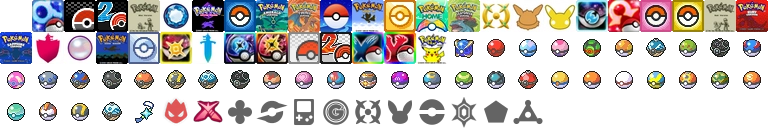
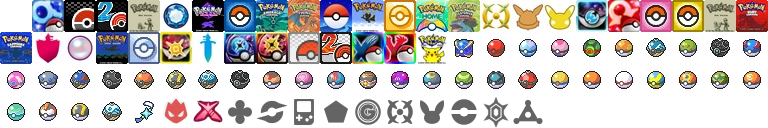
Rename gen6 and alola origin marks

Changed region(s): [[0.4062, 0.75, 0.6875, 1.0]]

diff --git a/images/iconsheet.css b/images/iconsheet.css
@@ -1,1 +1,1 @@
-.icon {background-image: var(--link-iconsheet);background-repeat: no-repeat;display: inline-block;width:32px;height:32px}.icon[data-icon="game/alphasapphire"]{background-position: -32px -0px}.icon[data-icon="game/black"]{background-position: -64px -0px}.icon[data-icon="game/black2"]{background-position: -96px -0px}.icon[data-icon="game/blue"]{background-position: -128px -0px}.icon[data-icon="game/brilliantdiamond"]{background-position: -160px -0px}.icon[data-icon="game/crystal"]{background-position: -192px -0px}.icon[data-icon="game/diamond"]{background-position: -224px -0px}.icon[data-icon="game/emerald"]{background-position: -256px -0px}.icon[data-icon="game/firered"]{background-position: -288px -0px}.icon[data-icon="game/go"]{background-position: -320px -0px}.icon[data-icon="game/gold"]{background-position: -352px -0px}.icon[data-icon="game/heartgold"]{background-position: -384px -0px}.icon[data-icon="game/home"]{background-position: -416px -0px}.icon[data-icon="game/leafgreen"]{background-position: -448px -0px}.icon[data-icon="game/legendsarceus"]{background-position: -480px -0px}.icon[data-icon="game/letsgoeevee"]{background-position: -512px -0px}.icon[data-icon="game/letsgopikachu"]{background-position: -544px -0px}.icon[data-icon="game/moon"]{background-position: -576px -0px}.icon[data-icon="game/omegaruby"]{background-position: -608px -0px}.icon[data-icon="game/pearl"]{background-position: -640px -0px}.icon[data-icon="game/platinum"]{background-position: -672px -0px}.icon[data-icon="game/red"]{background-position: -704px -0px}.icon[data-icon="game/ruby"]{background-position: -736px -0px}.icon[data-icon="game/sapphire"]{background-position: -0px -32px}.icon[data-icon="game/shield"]{background-position: -32px -32px}.icon[data-icon="game/shiningpearl"]{background-position: -64px -32px}.icon[data-icon="game/silver"]{background-position: -96px -32px}.icon[data-icon="game/soulsilver"]{background-position: -128px -32px}.icon[data-icon="game/sun"]{background-position: -160px -32px}.icon[data-icon="game/sword"]{background-position: -192px -32px}.icon[data-icon="game/ultramoon"]{background-position: -224px -32px}.icon[data-icon="game/ultrasun"]{background-position: -256px -32px}.icon[data-icon="game/white"]{background-position: -288px -32px}.icon[data-icon="game/white2"]{background-position: -320px -32px}.icon[data-icon="game/x"]{background-position: -352px -32px}.icon[data-icon="game/y"]{background-position: -384px -32px}.icon[data-icon="game/yellow"]{background-position: -416px -32px}.icon[data-icon="ball/beast"]{background-position: -448px -32px}.icon[data-icon="ball/cherish"]{background-position: -480px -32px}.icon[data-icon="ball/dive"]{background-position: -512px -32px}.icon[data-icon="ball/dream"]{background-position: -544px -32px}.icon[data-icon="ball/dusk"]{background-position: -576px -32px}.icon[data-icon="ball/fast"]{background-position: -608px -32px}.icon[data-icon="ball/feather"]{background-position: -640px -32px}.icon[data-icon="ball/friend"]{background-position: -672px -32px}.icon[data-icon="ball/gigaton"]{background-position: -704px -32px}.icon[data-icon="ball/great"]{background-position: -736px -32px}.icon[data-icon="ball/heal"]{background-position: -0px -64px}.icon[data-icon="ball/heavy"]{background-position: -32px -64px}.icon[data-icon="ball/hisuian-great"]{background-position: -64px -64px}.icon[data-icon="ball/hisuian-heavy"]{background-position: -96px -64px}.icon[data-icon="ball/hisuian-poke"]{background-position: -128px -64px}.icon[data-icon="ball/hisuian-ultra"]{background-position: -160px -64px}.icon[data-icon="ball/jet"]{background-position: -192px -64px}.icon[data-icon="ball/leaden"]{background-position: -224px -64px}.icon[data-icon="ball/level"]{background-position: -256px -64px}.icon[data-icon="ball/love"]{background-position: -288px -64px}.icon[data-icon="ball/lure"]{background-position: -320px -64px}.icon[data-icon="ball/luxury"]{background-position: -352px -64px}.icon[data-icon="ball/master"]{background-position: -384px -64px}.icon[data-icon="ball/moon"]{background-position: -416px -64px}.icon[data-icon="ball/nest"]{background-position: -448px -64px}.icon[data-icon="ball/net"]{background-position: -480px -64px}.icon[data-icon="ball/origin"]{background-position: -512px -64px}.icon[data-icon="ball/park"]{background-position: -544px -64px}.icon[data-icon="ball/poke"]{background-position: -576px -64px}.icon[data-icon="ball/premier"]{background-position: -608px -64px}.icon[data-icon="ball/quick"]{background-position: -640px -64px}.icon[data-icon="ball/repeat"]{background-position: -672px -64px}.icon[data-icon="ball/safari"]{background-position: -704px -64px}.icon[data-icon="ball/sport"]{background-position: -736px -64px}.icon[data-icon="ball/strange"]{background-position: -0px -96px}.icon[data-icon="ball/timer"]{background-position: -32px -96px}.icon[data-icon="ball/ultra"]{background-position: -64px -96px}.icon[data-icon="ball/wing"]{background-position: -96px -96px}.icon[data-icon="key/shiny-charm"]{background-position: -128px -96px}.icon[data-icon="gene/alpha"]{background-position: -160px -96px}.icon[data-icon="gene/gigantamax"]{background-position: -192px -96px}.icon[data-icon="origin-mark/clover"]{background-position: -224px -96px}.icon[data-icon="origin-mark/galar"]{background-position: -256px -96px}.icon[data-icon="origin-mark/game-boy"]{background-position: -288px -96px}.icon[data-icon="origin-mark/go"]{background-position: -320px -96px}.icon[data-icon="origin-mark/hisui"]{background-position: -352px -96px}.icon[data-icon="origin-mark/lets-go"]{background-position: -384px -96px}.icon[data-icon="origin-mark/old"]{background-position: -416px -96px}.icon[data-icon="origin-mark/paldea"]{background-position: -448px -96px}.icon[data-icon="origin-mark/pentagon"]{background-position: -480px -96px}.icon[data-icon="origin-mark/sinnoh-gen8"]{background-position: -512px -96px}
+.icon {background-image: var(--link-iconsheet);background-repeat: no-repeat;display: inline-block;width:32px;height:32px}.icon[data-icon="game/alphasapphire"]{background-position: -32px -0px}.icon[data-icon="game/black"]{background-position: -64px -0px}.icon[data-icon="game/black2"]{background-position: -96px -0px}.icon[data-icon="game/blue"]{background-position: -128px -0px}.icon[data-icon="game/brilliantdiamond"]{background-position: -160px -0px}.icon[data-icon="game/crystal"]{background-position: -192px -0px}.icon[data-icon="game/diamond"]{background-position: -224px -0px}.icon[data-icon="game/emerald"]{background-position: -256px -0px}.icon[data-icon="game/firered"]{background-position: -288px -0px}.icon[data-icon="game/go"]{background-position: -320px -0px}.icon[data-icon="game/gold"]{background-position: -352px -0px}.icon[data-icon="game/heartgold"]{background-position: -384px -0px}.icon[data-icon="game/home"]{background-position: -416px -0px}.icon[data-icon="game/leafgreen"]{background-position: -448px -0px}.icon[data-icon="game/legendsarceus"]{background-position: -480px -0px}.icon[data-icon="game/letsgoeevee"]{background-position: -512px -0px}.icon[data-icon="game/letsgopikachu"]{background-position: -544px -0px}.icon[data-icon="game/moon"]{background-position: -576px -0px}.icon[data-icon="game/omegaruby"]{background-position: -608px -0px}.icon[data-icon="game/pearl"]{background-position: -640px -0px}.icon[data-icon="game/platinum"]{background-position: -672px -0px}.icon[data-icon="game/red"]{background-position: -704px -0px}.icon[data-icon="game/ruby"]{background-position: -736px -0px}.icon[data-icon="game/sapphire"]{background-position: -0px -32px}.icon[data-icon="game/shield"]{background-position: -32px -32px}.icon[data-icon="game/shiningpearl"]{background-position: -64px -32px}.icon[data-icon="game/silver"]{background-position: -96px -32px}.icon[data-icon="game/soulsilver"]{background-position: -128px -32px}.icon[data-icon="game/sun"]{background-position: -160px -32px}.icon[data-icon="game/sword"]{background-position: -192px -32px}.icon[data-icon="game/ultramoon"]{background-position: -224px -32px}.icon[data-icon="game/ultrasun"]{background-position: -256px -32px}.icon[data-icon="game/white"]{background-position: -288px -32px}.icon[data-icon="game/white2"]{background-position: -320px -32px}.icon[data-icon="game/x"]{background-position: -352px -32px}.icon[data-icon="game/y"]{background-position: -384px -32px}.icon[data-icon="game/yellow"]{background-position: -416px -32px}.icon[data-icon="ball/beast"]{background-position: -448px -32px}.icon[data-icon="ball/cherish"]{background-position: -480px -32px}.icon[data-icon="ball/dive"]{background-position: -512px -32px}.icon[data-icon="ball/dream"]{background-position: -544px -32px}.icon[data-icon="ball/dusk"]{background-position: -576px -32px}.icon[data-icon="ball/fast"]{background-position: -608px -32px}.icon[data-icon="ball/feather"]{background-position: -640px -32px}.icon[data-icon="ball/friend"]{background-position: -672px -32px}.icon[data-icon="ball/gigaton"]{background-position: -704px -32px}.icon[data-icon="ball/great"]{background-position: -736px -32px}.icon[data-icon="ball/heal"]{background-position: -0px -64px}.icon[data-icon="ball/heavy"]{background-position: -32px -64px}.icon[data-icon="ball/hisuian-great"]{background-position: -64px -64px}.icon[data-icon="ball/hisuian-heavy"]{background-position: -96px -64px}.icon[data-icon="ball/hisuian-poke"]{background-position: -128px -64px}.icon[data-icon="ball/hisuian-ultra"]{background-position: -160px -64px}.icon[data-icon="ball/jet"]{background-position: -192px -64px}.icon[data-icon="ball/leaden"]{background-position: -224px -64px}.icon[data-icon="ball/level"]{background-position: -256px -64px}.icon[data-icon="ball/love"]{background-position: -288px -64px}.icon[data-icon="ball/lure"]{background-position: -320px -64px}.icon[data-icon="ball/luxury"]{background-position: -352px -64px}.icon[data-icon="ball/master"]{background-position: -384px -64px}.icon[data-icon="ball/moon"]{background-position: -416px -64px}.icon[data-icon="ball/nest"]{background-position: -448px -64px}.icon[data-icon="ball/net"]{background-position: -480px -64px}.icon[data-icon="ball/origin"]{background-position: -512px -64px}.icon[data-icon="ball/park"]{background-position: -544px -64px}.icon[data-icon="ball/poke"]{background-position: -576px -64px}.icon[data-icon="ball/premier"]{background-position: -608px -64px}.icon[data-icon="ball/quick"]{background-position: -640px -64px}.icon[data-icon="ball/repeat"]{background-position: -672px -64px}.icon[data-icon="ball/safari"]{background-position: -704px -64px}.icon[data-icon="ball/sport"]{background-position: -736px -64px}.icon[data-icon="ball/strange"]{background-position: -0px -96px}.icon[data-icon="ball/timer"]{background-position: -32px -96px}.icon[data-icon="ball/ultra"]{background-position: -64px -96px}.icon[data-icon="ball/wing"]{background-position: -96px -96px}.icon[data-icon="key/shiny-charm"]{background-position: -128px -96px}.icon[data-icon="gene/alpha"]{background-position: -160px -96px}.icon[data-icon="gene/gigantamax"]{background-position: -192px -96px}.icon[data-icon="origin-mark/alola"]{background-position: -224px -96px}.icon[data-icon="origin-mark/galar"]{background-position: -256px -96px}.icon[data-icon="origin-mark/game-boy"]{background-position: -288px -96px}.icon[data-icon="origin-mark/gen6"]{background-position: -320px -96px}.icon[data-icon="origin-mark/go"]{background-position: -352px -96px}.icon[data-icon="origin-mark/hisui"]{background-position: -384px -96px}.icon[data-icon="origin-mark/lets-go"]{background-position: -416px -96px}.icon[data-icon="origin-mark/old"]{background-position: -448px -96px}.icon[data-icon="origin-mark/paldea"]{background-position: -480px -96px}.icon[data-icon="origin-mark/sinnoh-gen8"]{background-position: -512px -96px}

diff --git a/images/iconsheet.html b/images/iconsheet.html
@@ -301,14 +301,17 @@
     <div class="icon" data-icon="gene/gigantamax"></div>
     <div>gene/gigantamax</div>
   </div>  <div class="container">
-    <div class="icon" data-icon="origin-mark/clover"></div>
-    <div>origin-mark/clover</div>
+    <div class="icon" data-icon="origin-mark/alola"></div>
+    <div>origin-mark/alola</div>
   </div>  <div class="container">
     <div class="icon" data-icon="origin-mark/galar"></div>
     <div>origin-mark/galar</div>
   </div>  <div class="container">
     <div class="icon" data-icon="origin-mark/game-boy"></div>
     <div>origin-mark/game-boy</div>
+  </div>  <div class="container">
+    <div class="icon" data-icon="origin-mark/gen6"></div>
+    <div>origin-mark/gen6</div>
   </div>  <div class="container">
     <div class="icon" data-icon="origin-mark/go"></div>
     <div>origin-mark/go</div>
@@ -324,9 +327,6 @@
   </div>  <div class="container">
     <div class="icon" data-icon="origin-mark/paldea"></div>
     <div>origin-mark/paldea</div>
-  </div>  <div class="container">
-    <div class="icon" data-icon="origin-mark/pentagon"></div>
-    <div>origin-mark/pentagon</div>
   </div>  <div class="container">
     <div class="icon" data-icon="origin-mark/sinnoh-gen8"></div>
     <div>origin-mark/sinnoh-gen8</div>
